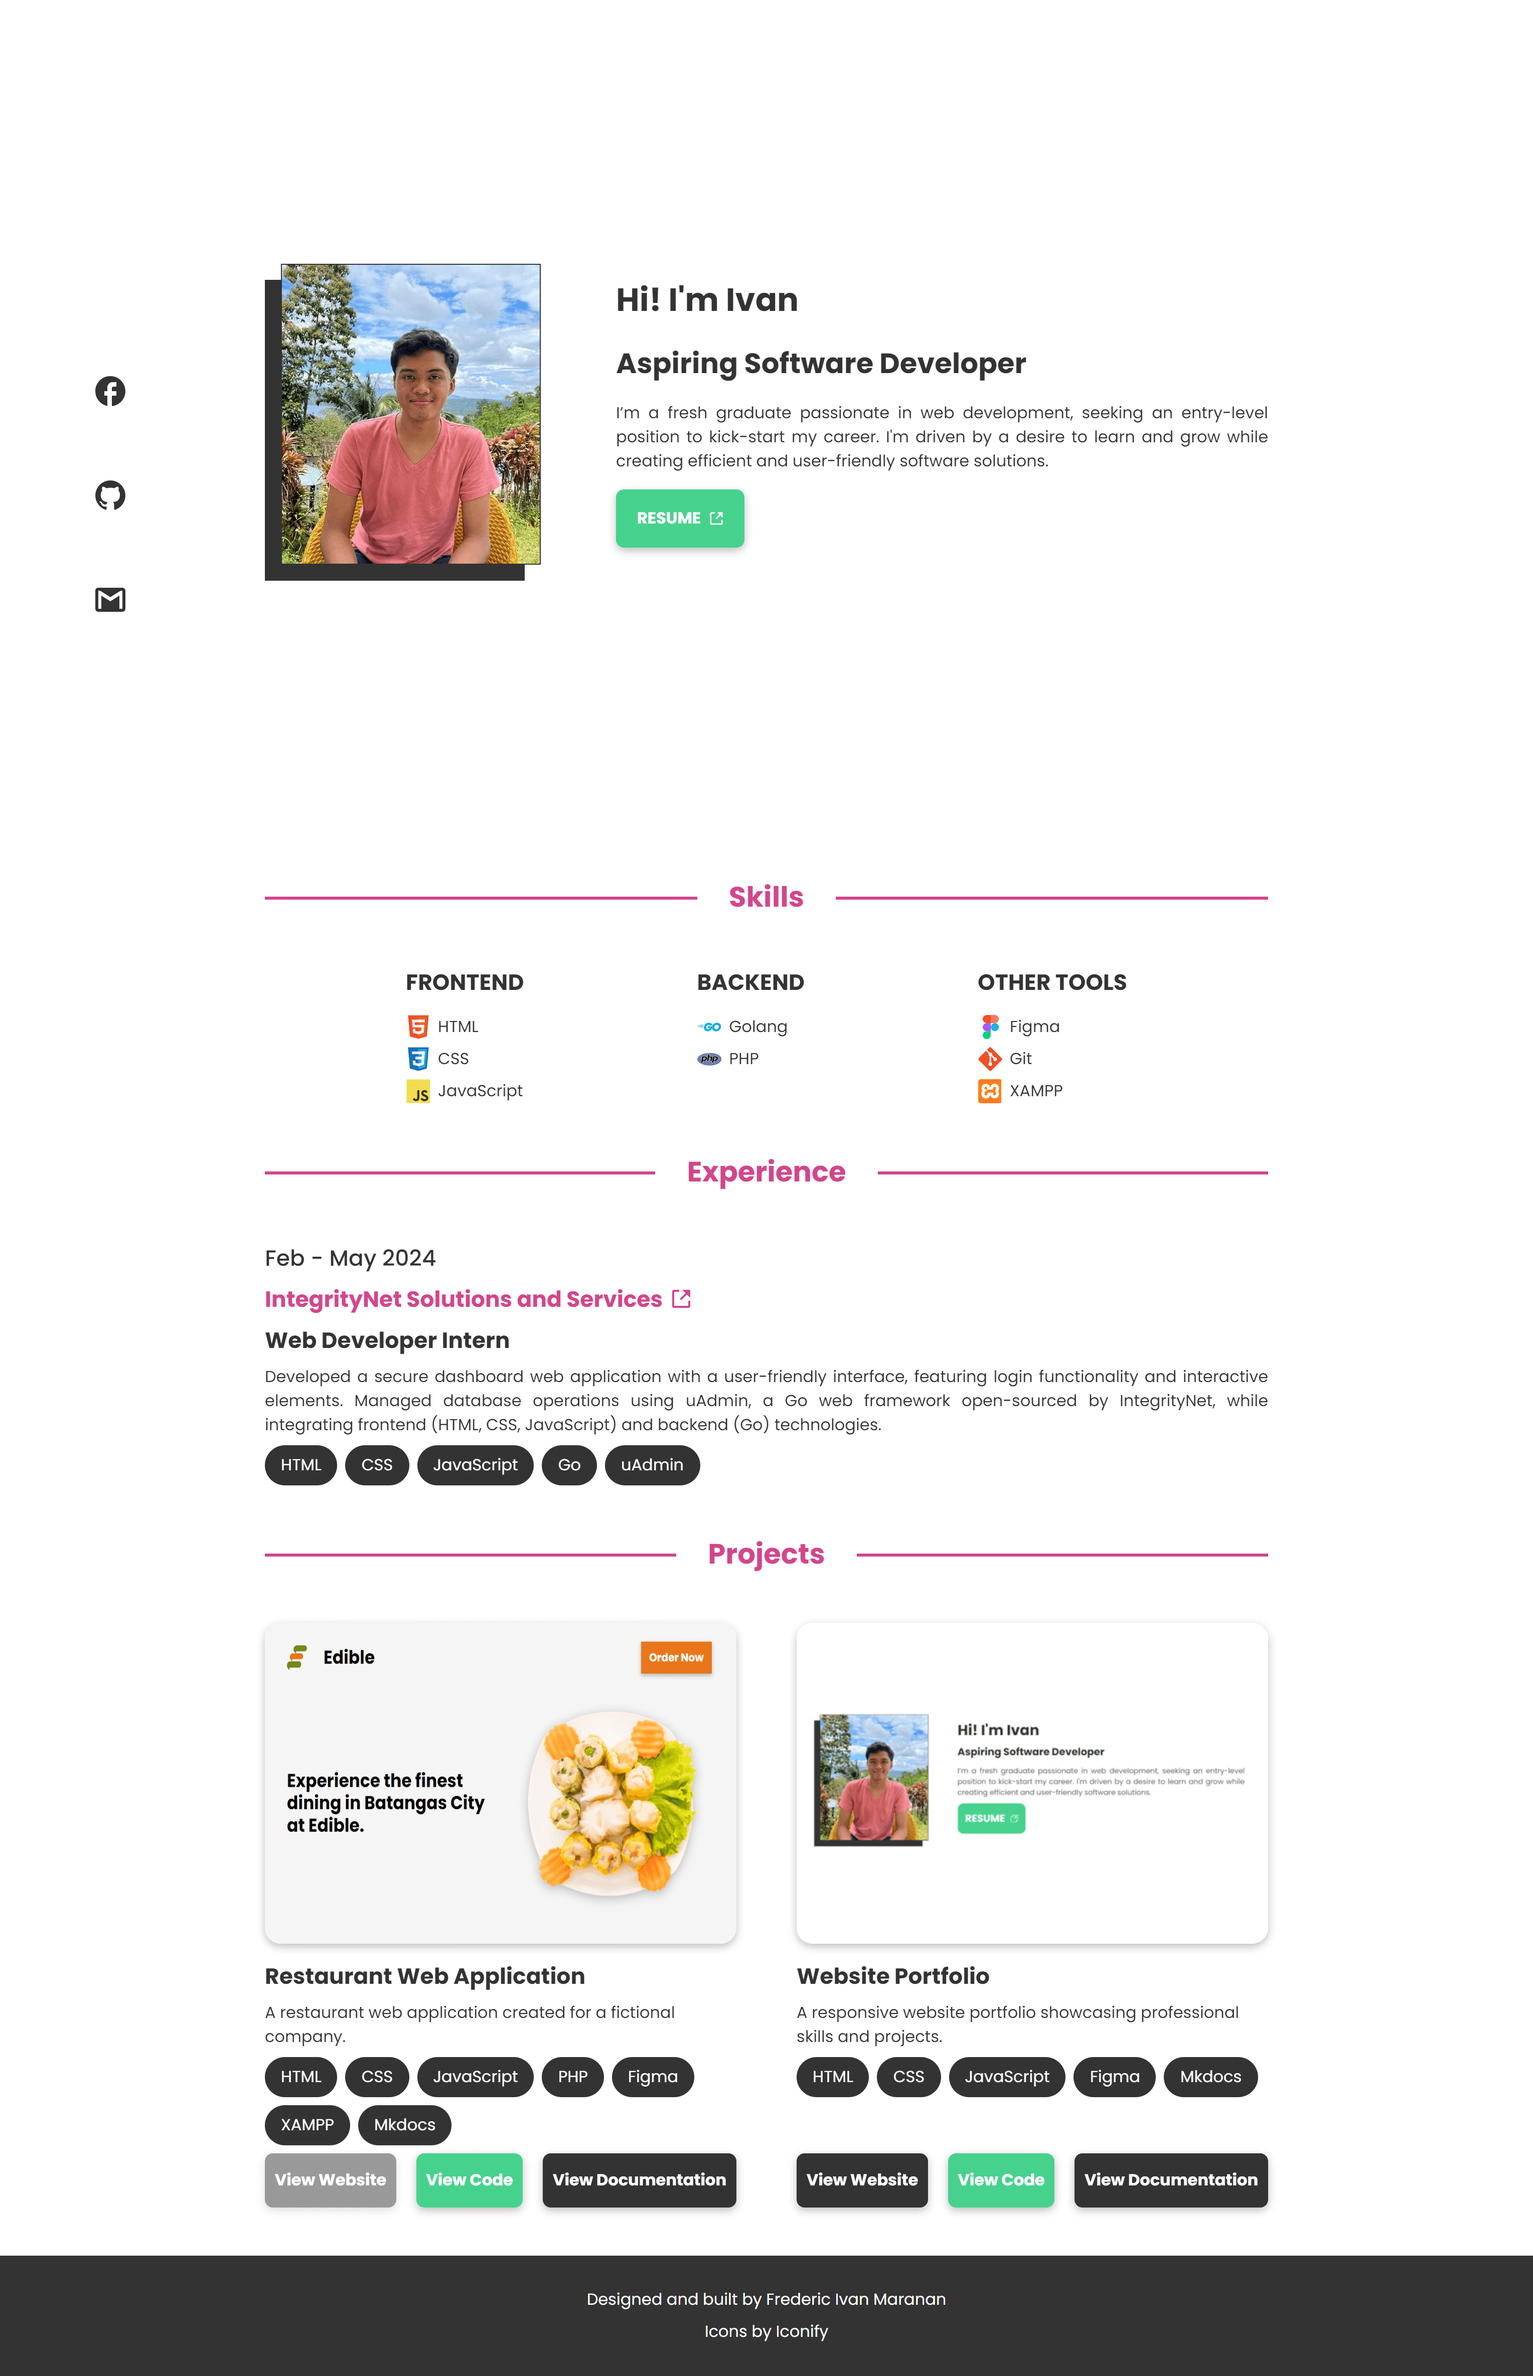
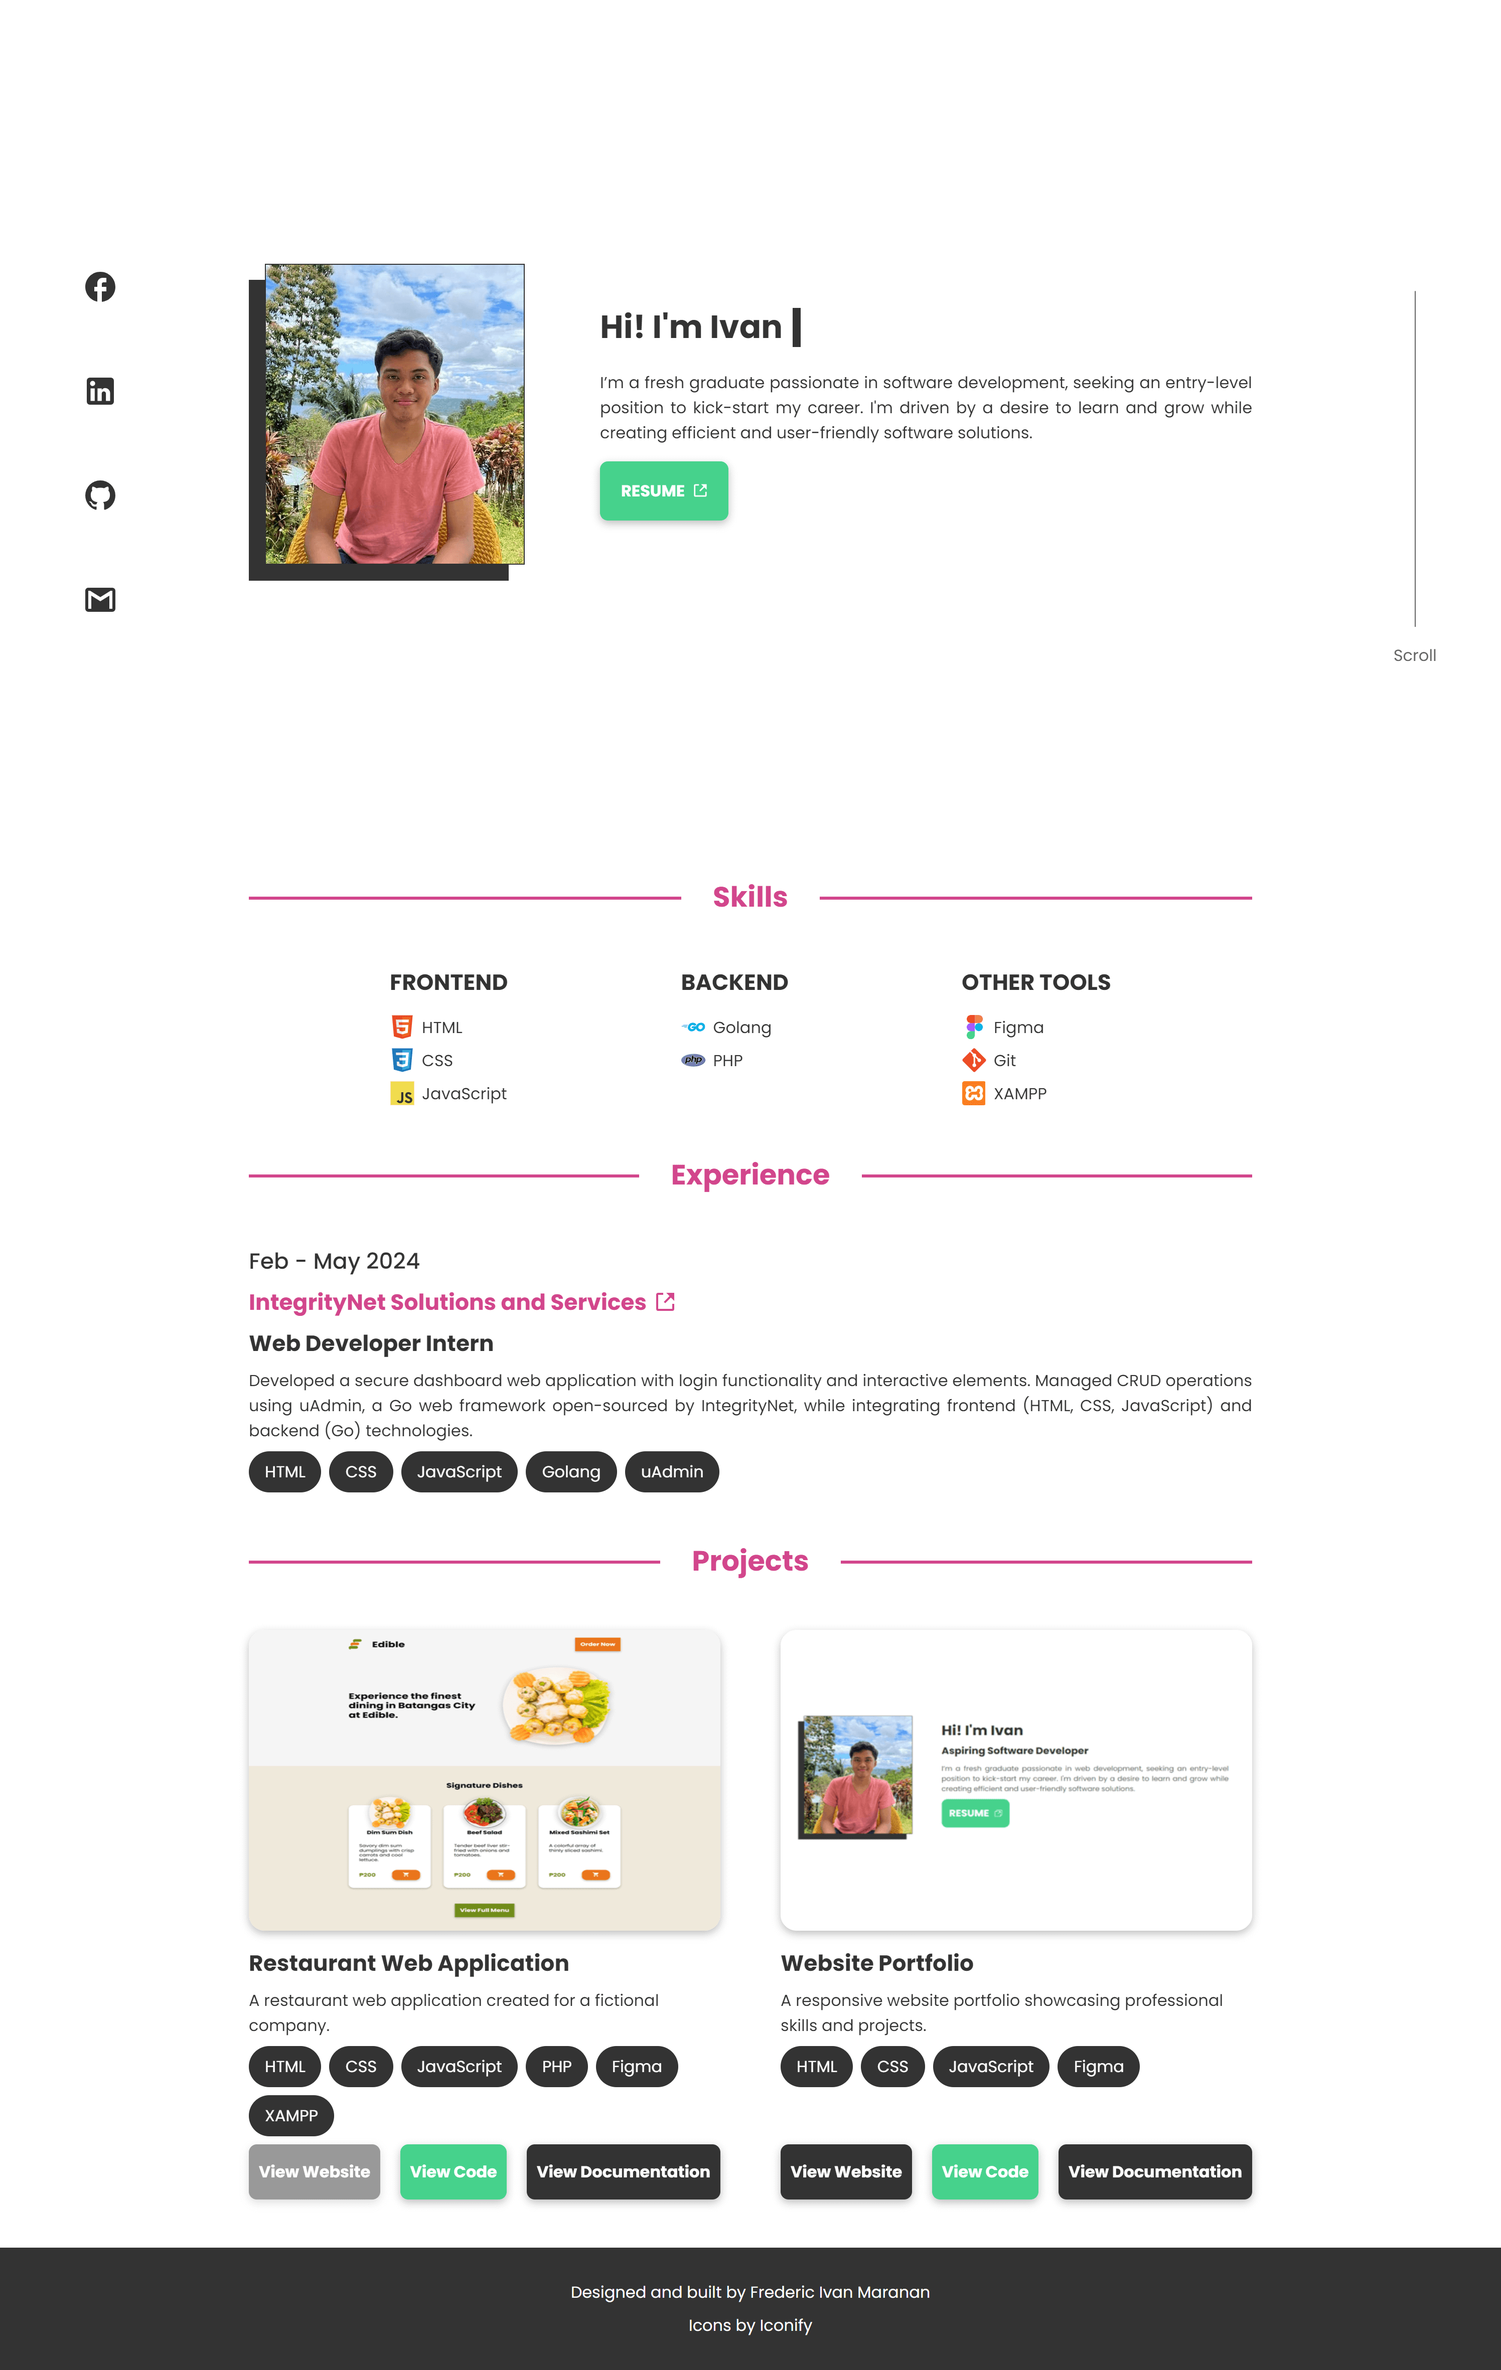
updated home info and documentation images

diff --git a/index.html b/index.html
@@ -29,7 +29,7 @@
                         <span class="greetings text-large bold">Hi! I'm Ivan</span>
                     </div>
                     
-                    <span class="text-semi-large bold capitalize">Aspiring Software Developer</span>
+                    <!-- <span class="text-semi-large bold capitalize">Aspiring Software Developer</span> -->
                     <p >I’m a fresh graduate passionate in software development, seeking an entry-level position to kick-start my career. 
                         I'm driven by a desire to learn and grow while creating efficient and user-friendly software solutions.</p>
                     <a href="Maranan-Resume.pdf" target="_blank">
